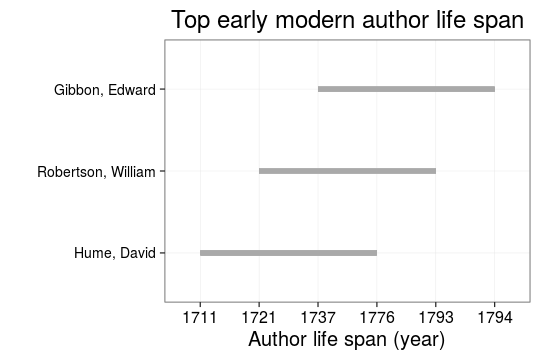
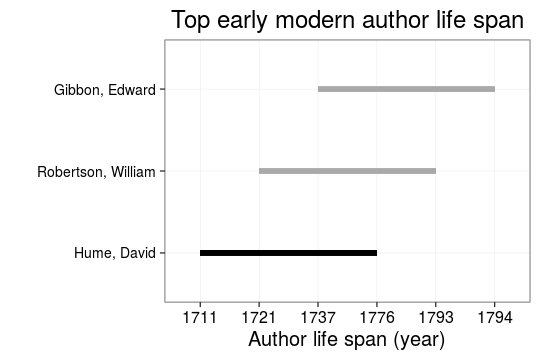
ok

Changed region(s): [[0.3556, 0.6722, 0.7111, 0.7333]]

diff --git a/inst/examples/20151023-LIBER.md b/inst/examples/20151023-LIBER.md
@@ -1,7 +1,7 @@
 ---
 title: "LIBER Analysis"
 author: "Leo Lahti"
-date: "23/10/2015"
+date: "05/03/2016"
 output: markdown_document
 ---
 
@@ -9,10 +9,14 @@ output: markdown_document
 
 
 ```
-## Error in `$<-.data.frame`(`*tmp*`, "gatherings", value = structure(integer(0), .Label = c("1to", : replacement has 0 rows, data has 50766
+## Error in gzfile(file, "rb"): cannot open the connection
 ```
 
-This document initially provided a reproducible summary of the ESTC history data set (roughly 50,000 documents) as prepared for our [Liber Quarterly article](http://liber.library.uu.nl/index.php/lq) ([Tolonen](https://github.com/tolonen), [Ilomäki](https://github.com/NVI/), [Lahti](http://www.iki.fi/Leo.Lahti); in review). See also further analyses of this data collection listed in the [README file](https://github.com/rOpenGov/estc). For details on the data and analysis, see the manuscript (link will be added here when the article is out!). Do not hesitate to contact us if you have questions. 
+```
+## Error in eval(expr, envir, enclos): object 'publication_year' not found
+```
+
+This document provides a reproducible summary of the ESTC history data set (roughly 50,000 documents) as prepared for our [Liber Quarterly article](http://liber.library.uu.nl/index.php/lq) ([Tolonen](https://github.com/tolonen), [Ilomäki](https://github.com/NVI/), [Lahti](http://www.iki.fi/Leo.Lahti); in review). See also further analyses of this data collection listed in the [README file](https://github.com/rOpenGov/estc). For details on the data and analysis, see the manuscript (link will be added here when the article is out!). Do not hesitate to contact us if you have questions. The figures may be slightly different than in the original article due to improvements in the analysis pipeline.
 
 ### Reproducing the analyses
 
@@ -40,7 +44,87 @@ Specific authors are highlighted:
 ## Error in dfs$names: $ operator is invalid for atomic vectors
 ```
 
-![plot of chunk 20151023LIBER-1](figure/20151023LIBER-1-1.png)
+```
+## Error in p + guides(fill = "none"): non-numeric argument to binary operator
+```
+
+```
+## Error in p + ylab("Title count"): non-numeric argument to binary operator
+```
+
+```
+## Error in p + scale_fill_manual(values = c("darkgray", "black")): non-numeric argument to binary operator
+```
+
+```
+## Error in p + ggtitle("Top early modern history authors in ESTC"): non-numeric argument to binary operator
+```
+
+```
+##    [1] NA NA  4 NA NA NA  4 NA NA  4  4  4  4 NA NA NA NA NA  2  2  4  4 NA
+##   [24] NA  4  4 NA NA NA NA NA  4 NA  4  4 NA NA NA  2 NA NA NA  4  4 NA NA
+##   [47]  2 NA NA NA  4 NA NA NA NA NA NA NA  2 NA NA  8  4  4 NA NA  4  5 NA
+##   [70] NA  4  2 NA  4 NA NA NA NA NA  4 NA NA NA NA NA NA  4  2 NA  2 NA  4
+##   [93]  4 NA NA NA NA  4 NA NA NA  2 NA  4  4  2 NA NA NA NA NA NA NA  4 NA
+##  [116] NA  4 NA  2  4  2 NA NA NA  4  2 NA NA NA NA  2 NA NA NA NA NA NA NA
+##  [139] NA NA NA NA NA NA  4  4 NA NA NA NA NA  4  4  4 NA  4  4 NA NA  4  4
+##  [162]  4  4  2 NA NA NA  4  4 NA NA NA  4 NA NA  2  4 NA  4  4 NA NA  4 NA
+##  [185] NA  4 NA NA NA NA  2 NA NA NA  4 NA NA  4  4 NA  4 NA NA NA NA NA NA
+##  [208] NA NA NA  4 NA NA NA NA NA NA NA NA NA NA NA NA NA NA NA NA NA NA NA
+##  [231] NA NA NA NA NA NA NA NA NA NA NA  4 NA NA NA NA NA NA NA NA NA NA NA
+##  [254] NA NA NA NA NA NA NA NA NA NA NA NA NA NA NA NA  4 NA NA NA NA NA NA
+##  [277] NA NA NA NA NA NA NA NA NA NA NA NA NA NA NA NA NA NA NA  4 NA NA NA
+##  [300] NA NA NA NA NA NA NA NA NA NA NA NA NA NA NA NA NA NA NA NA NA NA NA
+##  [323] NA NA NA  2 NA NA  4 NA  2 NA NA NA  4 NA  4 NA NA NA  4 NA  2  4  4
+##  [346] NA  4  4  4  4 NA NA NA NA NA NA  4  4 NA  4  4  4 NA  2 NA NA NA NA
+##  [369] NA  4 NA NA NA  4 NA NA  4  4  4 NA  4 NA NA NA NA NA  4  4 NA NA NA
+##  [392]  4 NA NA NA NA NA NA NA NA NA NA  6  4 NA  4  4  4  4 NA NA NA NA NA
+##  [415]  4 NA NA NA NA NA NA NA NA NA NA  2  6 NA NA  4 NA NA  4 NA NA NA NA
+##  [438] NA NA 10 NA NA NA NA NA NA NA NA NA NA NA  4 NA NA NA NA NA NA NA NA
+##  [461] NA NA NA NA NA NA NA NA NA NA NA NA NA NA NA NA NA NA NA NA NA NA NA
+##  [484] NA NA NA NA NA NA  4 NA NA NA NA NA NA NA NA NA NA NA NA NA NA NA NA
+##  [507] NA NA NA NA NA NA NA NA  4 NA NA  4 NA NA NA NA NA NA NA NA NA NA NA
+##  [530] NA NA NA NA  2  7 NA  4 NA  4 NA NA NA NA NA NA NA NA  4 NA  6 NA NA
+##  [553] NA NA NA NA NA NA NA NA  7 NA NA NA NA  4 NA  8 NA NA NA  2  4 NA NA
+##  [576] NA  2  9 NA NA NA  4 NA NA NA NA NA NA NA NA NA NA NA  4 NA  2 NA NA
+##  [599] NA NA  7 NA NA NA NA NA NA NA NA NA NA NA NA NA NA  4  7  4 NA NA NA
+##  [622] NA  4 NA NA NA NA NA  4 NA NA NA  8 NA NA NA NA NA  2 NA  7  4 NA NA
+##  [645] NA  7 NA NA NA NA NA NA NA NA  8 NA NA NA NA NA NA  6 10 NA NA NA NA
+##  [668] NA NA NA NA NA NA NA  9 NA NA  7 NA NA NA NA NA NA NA  4 NA  7 NA NA
+##  [691] NA NA NA NA NA NA  6 NA NA NA NA NA NA NA NA NA NA NA NA NA NA NA NA
+##  [714] NA NA NA NA NA NA NA NA NA  4  4 NA  4 NA NA NA NA  4 NA  2 NA NA NA
+##  [737]  4 NA  2 NA NA  4 NA  4 NA NA NA NA NA NA NA NA NA NA NA NA  4 NA NA
+##  [760] NA  4 NA NA NA NA NA NA NA NA NA NA NA NA NA NA  4 NA NA  4 NA  4 NA
+##  [783] NA  4  2 NA NA  2  4 NA NA NA NA NA NA NA NA NA NA NA NA  4 NA NA  4
+##  [806] NA 10 NA NA NA NA  2  4 NA  4 NA NA  4 NA NA NA NA NA NA  4 NA NA NA
+##  [829] NA NA  4 NA NA  4  4 NA NA NA NA NA NA NA  4 NA NA NA NA  2 NA NA NA
+##  [852] NA NA NA NA NA NA NA NA NA NA NA NA NA NA NA NA NA  4  4  4  4  4  4
+##  [875]  4  8 NA  4  4  4 NA NA  4  4  4  4  4  4  4  4 NA  2 NA  4 NA  4 NA
+##  [898]  4  4  4 NA  4 NA NA  4  6  4 NA  4  4 NA  4  2  4  4  4  4 NA NA  4
+##  [921]  4 NA  4  2 NA  4 NA  2 NA NA NA  4 NA  8 NA NA NA  8 NA  4 NA NA NA
+##  [944] NA  4  4  4 NA  4 NA  4  4 NA  4  4  4  4  4  4  4  4 NA NA NA  2 NA
+##  [967] NA NA  4 NA  4  4  4 NA NA NA  4 NA NA NA NA NA NA  2  4 NA  4 NA NA
+##  [990] NA  4 NA  4 NA NA  4 NA NA NA NA  4  4 NA NA NA NA NA NA NA  2 NA NA
+## [1013] NA  4 NA NA NA NA NA NA NA NA NA NA NA  4 NA  4 NA NA NA NA  4  2 NA
+## [1036] NA NA NA NA  4  4  4  2  4 NA NA NA NA NA NA  4 NA NA NA  4 NA NA NA
+## [1059]  4 NA NA NA NA  4  4  4 NA NA  4 NA NA NA NA NA NA NA NA NA  2 NA NA
+## [1082] NA NA NA NA NA  4  4 NA  4 NA NA NA NA NA NA NA NA NA NA  4 NA NA  4
+## [1105] NA NA NA NA NA  4 NA NA  4 NA  4 NA NA NA NA NA  4 NA NA  4 NA  4  4
+## [1128] NA NA  4 NA NA NA NA NA NA NA NA NA  4 NA NA NA NA NA NA NA NA  4 NA
+## [1151] NA  4 NA NA NA NA NA NA NA NA  4 NA NA  4 NA NA NA NA NA NA NA NA NA
+## [1174] NA NA NA NA NA  4 NA NA  4  4 NA NA  4 NA NA NA NA NA  4 NA NA NA NA
+## [1197] NA  4  4 NA  4 NA NA NA  4 NA NA NA NA NA NA NA  2 NA  4  4 NA NA NA
+## [1220] NA NA NA NA NA NA NA NA  2 NA NA NA NA NA NA  2  2 NA NA NA  2 NA NA
+## [1243]  4  4 NA  4 NA NA NA NA NA NA NA NA NA NA NA NA NA NA  4 NA NA NA NA
+## [1266]  4 NA NA NA  4  4 NA NA  4 NA NA NA NA  4 NA NA NA NA  4 NA NA NA NA
+## [1289]  4 NA NA NA  4 NA NA NA  4 NA NA NA NA NA  4  4 NA NA NA NA NA NA NA
+## [1312]  2 NA NA  4  4 NA  4 NA NA NA NA NA NA NA NA  4  4 NA NA NA  4  4 NA
+## [1335] NA  4 NA  4 NA NA  2  4 NA  4 NA NA NA NA NA NA  4  4  4 NA  4  7  4
+## [1358] NA  4 NA  2  4 NA NA  2 NA NA NA  4  4 NA NA NA NA NA NA NA NA NA NA
+## [1381]  4 NA NA  4  4  4 NA NA NA  4  4 NA NA  4 NA  4 NA NA NA  4 NA NA NA
+## [1404] NA  4 NA NA NA  4 NA  4  2  2  4  4  4  4  4 NA NA NA NA NA NA NA  2
+## [1427]  2 NA NA  4  4  9  4  4 NA NA NA  4 NA NA  4 NA  4  4  4 NA
+```
 
 
 ### The life spans of the top authors based on the title count
@@ -49,7 +133,7 @@ The visualization also reveals ambiguities arising from authors having the same 
 
 
 ```
-## Error in `[.data.frame`(dfs, , c("author_name", "author_unique", "author_birth", : undefined columns selected
+## Error in .check_names_df(x, j): undefined columns: author, author_birth, author_death
 ```
 
 ![plot of chunk 20151023LIBER-2](figure/20151023LIBER-2-1.png)
@@ -61,7 +145,7 @@ William Prynne, Daniel Defoe and David Hume (highlighted in Figures 1 and 2) pro
 
 
 ```
-## Error in eval(expr, envir, enclos): unknown column 'author_unique'
+## Error in eval(expr, envir, enclos): unknown column 'author'
 ```
 
 ```
@@ -77,7 +161,7 @@ The visualization reveals the nature of the author’s publications, distinguish
 
 
 ```
-## Error in eval(expr, envir, enclos): unknown column 'author_unique'
+## Error in eval(expr, envir, enclos): unknown column 'author'
 ```
 
 ```
@@ -139,15 +223,6 @@ The current country of origin is indicated.
 
 
 ```
-## Error in eval(expr, envir, enclos): unknown column 'publication_place'
-```
-
-```
-## Warning in is.na(object): is.na() applied to non-(list or vector) of type
-## 'NULL'
-```
-
-```
 ## Warning in max(na.omit(dfs$titles[!is.infinite(dfs$titles)])): no non-
 ## missing arguments to max; returning -Inf
 ```
@@ -157,7 +232,12 @@ The current country of origin is indicated.
 ```
 
 ```
-## Error in eval(expr, envir, enclos): object 'publication_place' not found
+## Warning in rep(no, length.out = length(ans)): 'x' is NULL so the result
+## will be NULL
+```
+
+```
+## Error in ifelse(!is.na(self$limits), self$limits, self$range$range): replacement has length zero
 ```
 
 ![plot of chunk 20151023LIBER-8](figure/20151023LIBER-8-1.png)
@@ -166,18 +246,51 @@ The current country of origin is indicated.
 
 ### Title count and paper consumption in Ireland, Scotland and the USA
 
-![plot of chunk 20150611paris-places4](figure/20150611paris-places4-1.png)
+
+```
+## Error in eval(expr, envir, enclos): unknown column 'country'
+```
+
+```
+## Error in eval(expr, envir, enclos): object 'docs' not found
+```
 
 
 Estimated gatherings per country:
+
+
+```
+## Error: All select() inputs must resolve to integer column positions.
+## The following do not:
+## *  gatherings
+## *  country
+```
 
 ![plot of chunk 20151023LIBER-docsizecomp1](figure/20151023LIBER-docsizecomp1-1.png)
 
 Estimated pagecounts per country:
 
+
+```
+## Error in eval(expr, envir, enclos): object 'pagecount' not found
+```
+
+```
+## Error in layout_base(data, rows, drop = drop): At least one layer must contain all variables used for facetting
+```
+
 ![plot of chunk 20151023LIBER-docsizecomp2](figure/20151023LIBER-docsizecomp2-1.png)
 
 Gatherings vs. pagecounts per country
+
+
+```
+## Error in eval(expr, envir, enclos): object 'pagecount' not found
+```
+
+```
+## Error in layout_base(data, rows, drop = drop): At least one layer must contain all variables used for facetting
+```
 
 ![plot of chunk 20151023LIBER-docsizecomp3](figure/20151023LIBER-docsizecomp3-1.png)
 
@@ -256,11 +369,11 @@ Each point represents a decade. Loess smoothing.
 ```
 
 ```
-## Error in eval(expr, envir, enclos): unknown column 'author_unique'
+## Error in eval(expr, envir, enclos): unknown column 'author'
 ```
 
 ```
-## Error in `[<-.data.frame`(`*tmp*`, dfs$author_unique == "Hume, David (1560-1630)", : replacement has 1 row, data has 0
+## Error in `[<-.data.frame`(`*tmp*`, dfs$author == "Hume, David (1560-1630)", : replacement has 1 row, data has 0
 ```
 
 ```
@@ -272,6 +385,11 @@ Each point represents a decade. Loess smoothing.
 ### Edinburgh publishing
 
 The publishing of historical works in Edinburgh on a timeline highlighting the eras of the English Civil War (1642-1651), the Restoration (1660), the Glorious Revolution (1688-1689), the Union Debates (1705-1706) and American Independence (1776).
+
+
+```
+## Error in split.default(X, group): first argument must be a vector
+```
 
 ![plot of chunk 20151023LIBER-Edinburgh](figure/20151023LIBER-Edinburgh-1.png)
 
